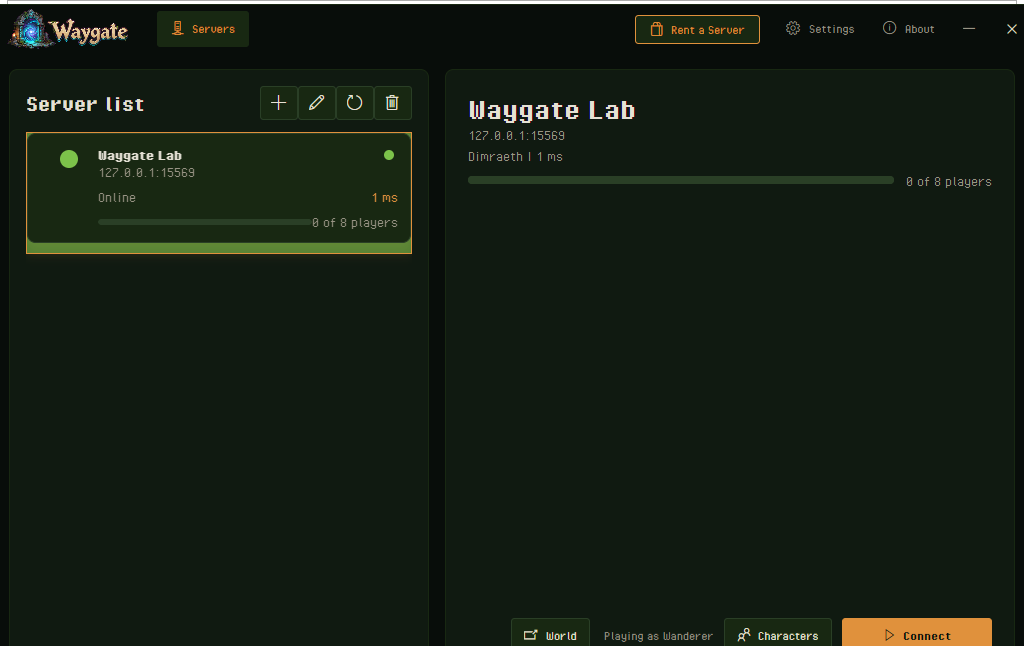
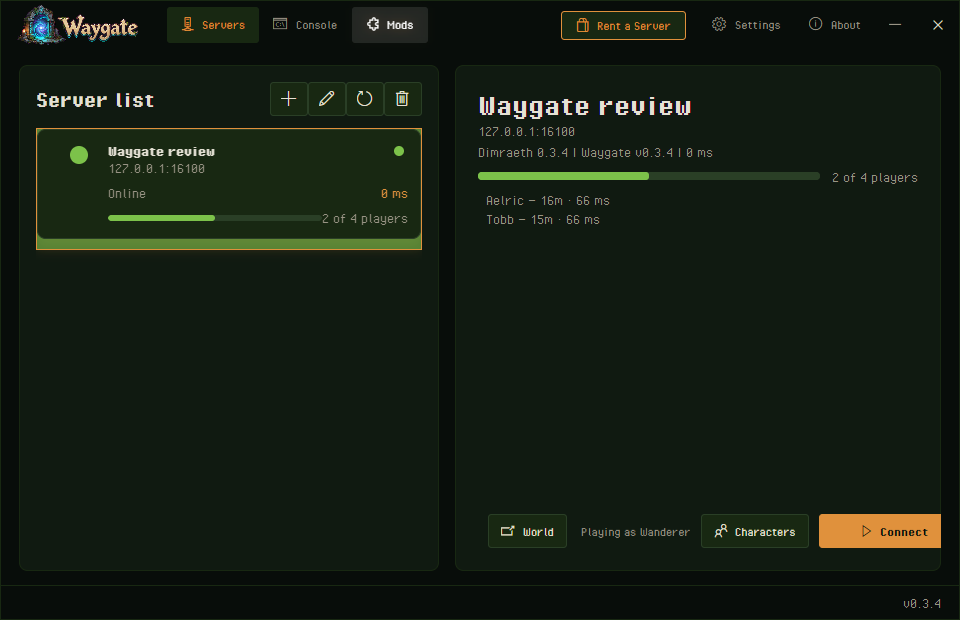
README: the app on 0.3.4 (main window, Console and Mods tabs), the server page from the game's own pixels with the fog of war, the Mods feature and the version badge

diff --git a/README.md b/README.md
@@ -17,7 +17,7 @@ Dimraeth has no dedicated server. Its multiplayer is a Steam lobby hosted from o
 Every player must install Waygate to join a Waygate server. Stock Dimraeth cannot connect to a Waygate server directly.
 
 <p align="center">
-  <img src="docs/img/launcher.png" alt="The Waygate app: a saved server with its player count and a Connect button" width="860">
+  <img src="docs/img/launcher.png" alt="The Waygate app: a saved server with its status and player count, the Connect button, and the Console and Mods tabs" width="860">
 </p>
 
 ## Features
@@ -42,14 +42,25 @@ Set one on the server and the app asks for it before connecting.
 The host can turn player chat off for the whole server. Dimraeth's own chat setting is per player; this one is enforced on the server.
 
 ### 🗺 The server's own web page
-Every Waygate server serves a page about itself: the live map of the world with each player's position, the console, who is playing and Discord alerts. Players get the map by address; the owner unlocks the rest with the admin password. Details in [WaygateServer](https://github.com/HumanGenome/WaygateServer#the-web-page).
+Every Waygate server serves a page about itself: the world map drawn from the game's own pixels, sharp all the way in to the game's closest zoom, with each player's position every five seconds, the Waygates and crystals they have found, and a fog of war over every region nobody has discovered yet; the console, who is playing and Discord alerts. Players get the map by address; the owner unlocks the rest with the admin password. Details in [WaygateServer](https://github.com/HumanGenome/WaygateServer#the-web-page).
 
 <p align="center">
-  <img src="docs/img/web-map.png" alt="A Waygate server's web page: the Earlwood map with a player's live position" width="860">
+  <img src="docs/img/web-map.png" alt="A Waygate server's web page: the Earlwood map from the game's own pixels with a player's live position" width="860">
 </p>
 
 ### 🖥 Console in the app
 The Console tab in the app talks to the server's admin port: the live log, the command line and the same commands the server's page has, once the admin password is set.
+
+<p align="center">
+  <img src="docs/img/launcher-console.png" alt="The app's Console tab connected to a server, with a status command answered" width="860">
+</p>
+
+### 🧩 Mods
+Server mods run on the server and players install nothing. A mod that needs a piece on the player's side is published by the server, and the Mods tab installs it into a profile for that server when you connect, asks once, and removes what a server no longer needs. A plain Steam start of the game never sees any of it.
+
+<p align="center">
+  <img src="docs/img/launcher-mods.png" alt="The app's Mods tab for a server that runs no client-side mods" width="860">
+</p>
 
 ### 📡 Server query
 The server answers Source A2S on the port above the gameplay port with its status and player count, so monitoring tools and hosting panels can read it.
@@ -58,7 +69,7 @@ The server answers Source A2S on the port above the gameplay port with its statu
 If the server cannot start, it writes what stopped it to `waygate\boot-report.txt` and refuses to run.
 
 ### 🔄 Plain game afterwards
-Starting Dimraeth from Steam after a Waygate session runs the normal game. The mod only acts when the app started the game. The app updates itself on start.
+Starting Dimraeth from Steam after a Waygate session runs the normal game. The mod only acts when the app started the game; while it is on, the game's version corner reads the Waygate version beside the game's. The app updates itself on start.
 
 <p align="center">
   <img src="docs/img/exploring.png" alt="Exploring a Dimraeth world hosted on a Waygate server" width="860">
